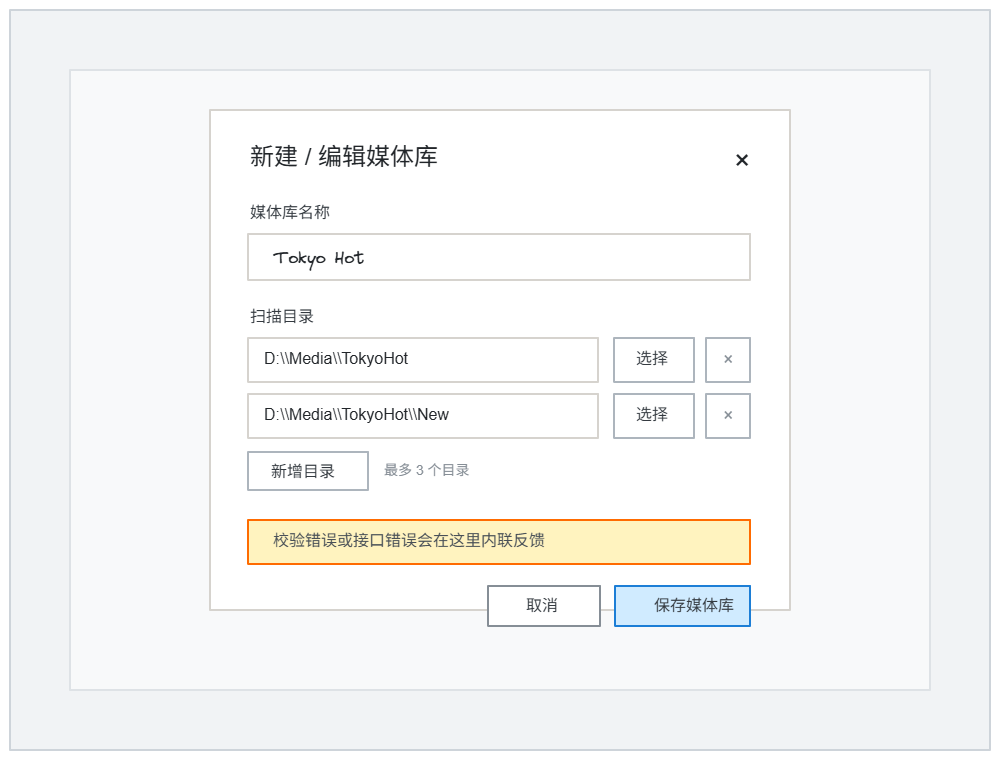
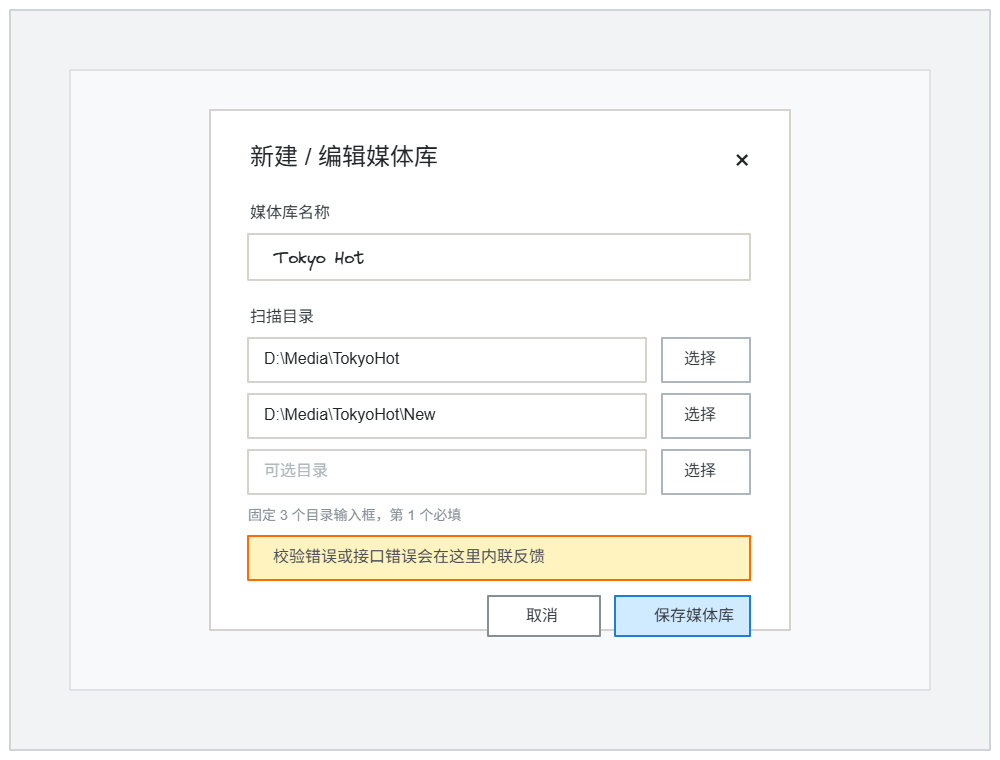
docs: simplify library directory inputs

diff --git a/doc/UI/new/dialogs/create-edit-library-dialog.md b/doc/UI/new/dialogs/create-edit-library-dialog.md
@@ -31,7 +31,7 @@
 - 主体只保留两组字段：
   - `媒体库名称`
   - `扫描目录`
-- `扫描目录` 使用路径列表组件，而不是多行纯文本框。
+- `扫描目录` 使用 3 个固定路径输入框，不做动态增删。
 - 底部按钮顺序固定：
   - 左侧 `取消`
   - 右侧主按钮 `保存媒体库`
@@ -43,11 +43,10 @@
 | 标题 | 静态标题 | 是 | 无 | 当前模式 | 建库/编辑共用 |
 | 关闭按钮 | 图标按钮 | 是 | 关闭弹层 | 无 | 右上角关闭 |
 | 媒体库名称 | 输入框 | 是 | 编辑库名 | 当前表单态 | 必填 |
-| 扫描目录列表 | 路径列表组件 | 是 | 编辑扫描目录列表 | 当前表单态 | 最少 1 条，最多 3 条 |
-| 路径输入框 | 行内输入框 | 是 | 编辑单条目录路径 | 当前表单态 | 允许手输或回填 |
+| 目录 1 | 路径输入框 | 是 | 编辑第 1 条目录路径 | 当前表单态 | 必填 |
+| 目录 2 | 路径输入框 | 是 | 编辑第 2 条目录路径 | 当前表单态 | 可留空 |
+| 目录 3 | 路径输入框 | 是 | 编辑第 3 条目录路径 | 当前表单态 | 可留空 |
 | 选择文件夹 | 行内按钮 | 是 | 打开目录选择器 | 本地系统能力 | 选中后回填当前行 |
-| 删除目录 | 行内按钮 | 条件 | 删除当前目录行 | 当前表单态 | 仅第 2-3 行显示 |
-| 新增目录 | 次按钮 | 条件 | 新增空目录行 | 当前表单态 | 达到 3 条后置灰 |
 | 错误反馈区 | 提示条 | 条件 | 展示错误 | 本地校验 / 接口返回 | 无错误时隐藏 |
 | 取消按钮 | 次按钮 | 是 | 关闭弹层 | 无 | 不提交 |
 | 保存按钮 | 主按钮 | 是 | 提交表单 | 创建 / 更新接口 | pending 时禁用 |
@@ -56,14 +55,16 @@
 
 - 从 `library-management-page` 的 `新建媒体库` 或 `编辑` 进入。
 - 编辑模式与新建模式共用同一弹层结构，只是预填已有值。
-- 扫描目录按“每行一条路径”展示，不使用手动换行作为主交互。
-- 默认至少显示 1 条目录行。
-- 点击 `新增目录` 后，在列表底部新增一条空目录行。
-- 目录行达到 3 条后，`新增目录` 置灰并提示已达上限。
-- 每条目录都可通过 `选择文件夹` 打开系统目录选择器回填。
-- 第 2 条和第 3 条目录允许删除；当只剩 1 条时不再允许删除最后一条。
-- 如用户在输入框内粘贴多行路径，可按换行自动拆分到多条目录行，但这只是增强能力，不作为主交互。
-- 保存前应执行目录去重、空值校验和上限校验。
+- 扫描目录固定展示 3 条输入框，不提供新增目录或删除目录的动态交互。
+- 每条目录都可通过对应的 `选择` 按钮打开系统目录选择器回填。
+- 保存时按顺序读取 3 个输入框：
+  - 第 1 条不能为空
+  - 第 2 条和第 3 条可为空
+- 保存前应执行：
+  - 去除首尾空白
+  - 空值过滤
+  - 重复路径校验
+  - 每条非空路径的可访问性校验
 - 保存失败时，错误反馈在字段下方或底部提示区内联展示。
 - 弹层关闭后，不应污染列表页布局。
 
@@ -71,11 +72,11 @@
 
 ### Create
 
-- 新建模式下库名默认为空，目录列表默认只有 1 条空行。
+- 新建模式下库名默认为空，3 条目录输入框均为空。
 
 ### Edit
 
-- 编辑模式下带入当前库名和 1-3 条已有目录。
+- 编辑模式下带入当前库名和已有目录，并按顺序回填到 3 条固定输入框。
 
 ### Pending
 
@@ -85,25 +86,21 @@
 
 - 校验失败或接口失败时显示错误反馈区。
 
-### Max Reached
-
-- 目录条数达到 3 条时，`新增目录` 不再可用。
-
 ## 性能与体验约束
 
 - 弹层字段保持最小化，不在第一轮加入更多配置项。
 - 建库与编辑必须共用一套弹层壳，避免分叉两种 UI。
-- 目录列表组件应优先服务“少量固定条目”的录入场景，不引入复杂拖拽排序。
-- 目录数量上限固定为 3，避免弹层纵向失控。
+- 目录数量固定为 3 条，优先降低交互成本，而不是追求弹性配置。
+- 目录区不引入新增、删除、排序等额外交互。
 
 ## 回归点
 
 - `新建媒体库` 能打开弹层。
 - `编辑` 能复用同一弹层并预填值。
-- 扫描目录以路径列表组件展示，而不是多行文本框。
-- `新增目录` 最多只能增加到 3 条。
-- `选择文件夹` 能回填当前目录行。
-- 删除目录行后，剩余目录值保持正确。
+- 扫描目录以 3 个固定输入框展示，而不是多行文本框或动态列表。
+- `选择文件夹` 能回填对应目录行。
+- 保存时会校验非空路径是否可访问。
+- 重复路径或不可访问路径会给出明确错误反馈。
 - 保存成功后列表页能刷新。
 - 保存失败时有明确错误反馈。
 
